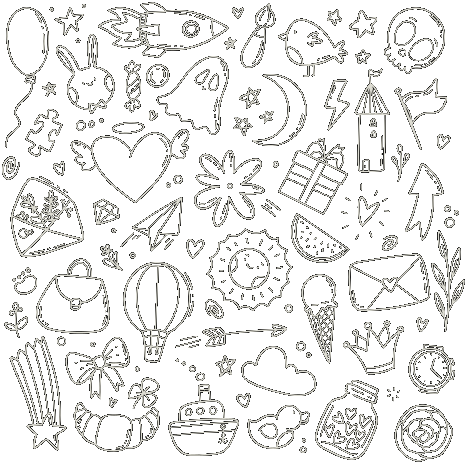
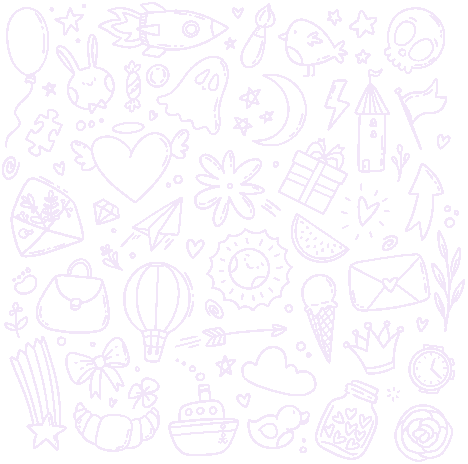
Improve and clean-up style

diff --git a/src/index.scss b/src/index.scss
@@ -3,13 +3,12 @@
 body {
   margin: 0;
 
-  background-color: variables.$background-color;
-  background-image: url(/public/doodles_placeholder_light.png), url(/public/doodles_placeholder_light.png);
+  background-color: variables.$white-color;
+  background-image: url(/doodles_placeholder_light.png), url(/doodles_placeholder_light.png);
   background-position: top left, top right;
   background-repeat: repeat-y;
-  background-blend-mode: screen;
 
-  color: variables.$text-color;
+  color: variables.$black-color;
   font-family: "Open Sans", sans-serif;
 }
 
@@ -22,7 +21,7 @@ body {
 
 @media (max-width: variables.$small-device-width) {
   body {
-    background-image: url(/public/doodles_placeholder_light.png);
+    background-image: url(/doodles_placeholder_light.png);
     background-position: center;
   }
 }

diff --git a/src/components/Navigation.scss b/src/components/Navigation.scss
@@ -26,6 +26,7 @@ $hover-animation-duration: 150ms;
         a {
           color: variables.$accent-color;
           transition: color $hover-animation-duration;
+          text-decoration: underline;
         }
       }
       
@@ -34,6 +35,7 @@ $hover-animation-duration: 150ms;
         text-align: center;
         padding: 5px 0;
         width: 100%;
+        text-decoration: none;
 
         color: variables.$secondary-color;
         font-weight: bold;

diff --git a/src/variables.scss b/src/variables.scss
@@ -1,11 +1,11 @@
 $primary-color: #462A7A;
 $secondary-color: #C792EA;
-$tertiary-color: #7E2975;
-$background-color: #ead6f7;
+$tertiary-color: #892A93;
+$background-color: #f2e6f9;
 $accent-color: #FEFFD9;
 
-$text-color: black;
-$text-background-color: white;
+$black-color: #222;
+$white-color: #fafafa;
 
 $small-device-width: 1080px;
 $small-device-height: 900px;

diff --git a/src/App.scss b/src/App.scss
@@ -17,7 +17,9 @@
   max-width: 1080px;
 
   border: 1px solid variables.$primary-color;
-  background-color: variables.$text-background-color;
+  border-radius: 5px;
+  background-color: variables.$white-color;
+  box-shadow: 5px 5px variables.$secondary-color;
 
   overflow-x: hidden;
 
